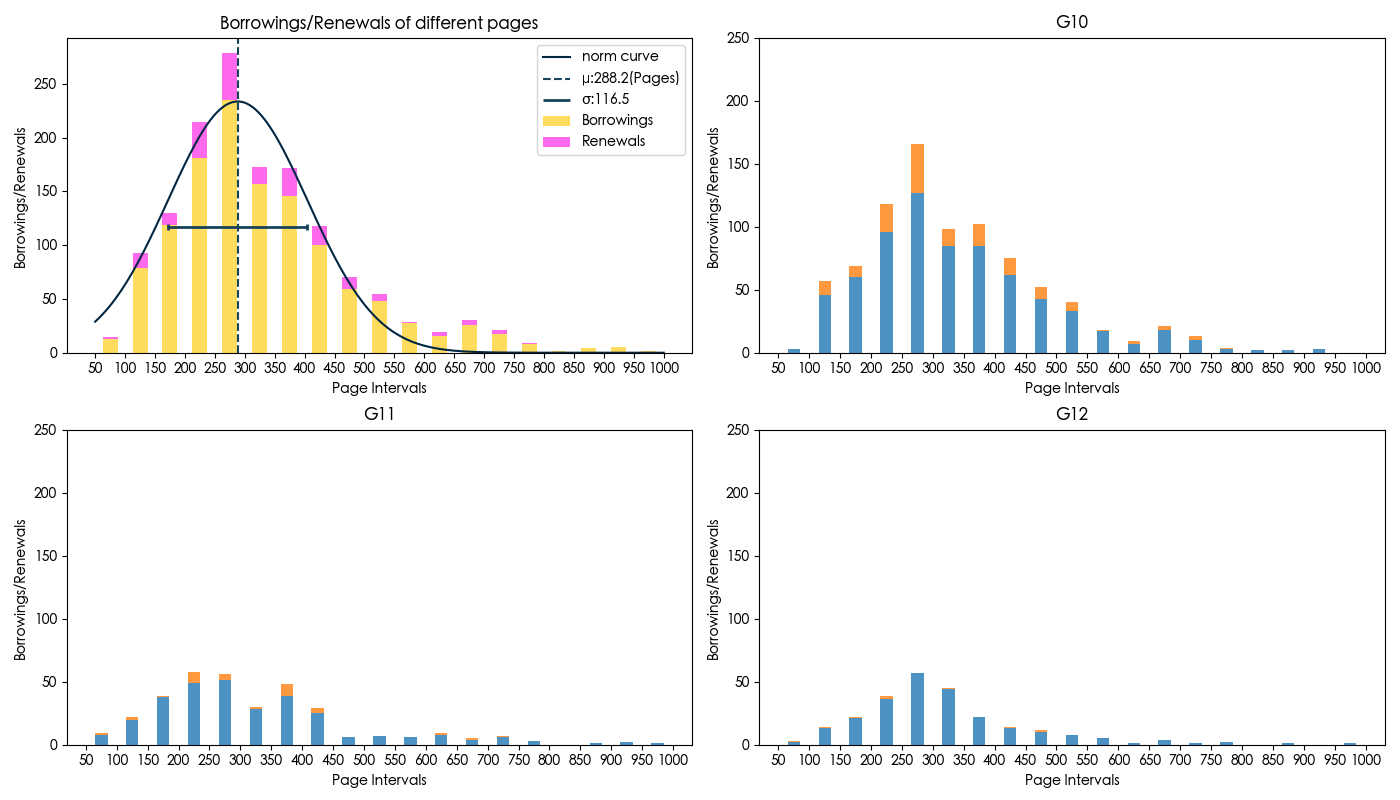
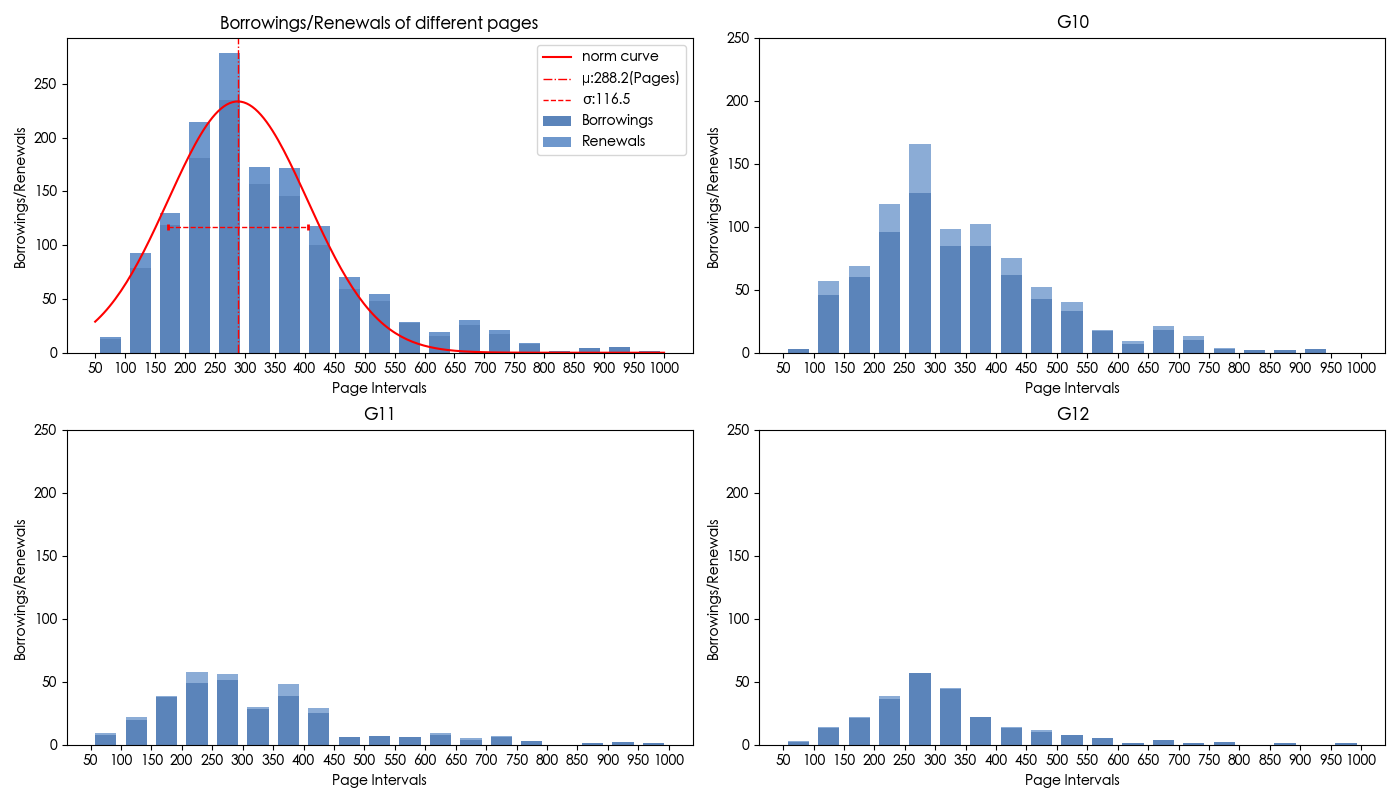
将color集中在color.py

diff --git a/code/借书时间段.py b/code/借书时间段.py
@@ -5,6 +5,7 @@ from matplotlib.ticker import MaxNLocator, FixedLocator
 from scipy.ndimage import gaussian_filter1d
 from scipy.optimize import curve_fit
 
+import color
 
 # ===================== 1. 读取数据 =====================
 # 请改成你自己的 Excel 文件名
@@ -81,11 +82,11 @@ daily_sum.to_excel(output_location, sheet_name="Sheet1")
 plt.rcParams['font.sans-serif'] = ['Arial']
 plt.rcParams['axes.unicode_minus'] = False  # 负号正常显示
 
-bar_color1='#3673AA'
-bar_color2='#4AA6B6'
-curve_color='#FF8811'
-center_line_color='#F4D035'
-width_color='#F4D06F'
+
+
+curve_color=color.line_color1
+center_line_color=color.line_color1
+width_color=color.line_color1
 fig,((ax1 ,g10),(g11,g12))= plt.subplots(2, 2, figsize=(15, 8))
 
 def set_twin_label(ax):
@@ -95,12 +96,12 @@ def set_twin_label(ax):
     axx.set_yticks([0, 0.5, 1.0, 1.5, 2.0])
 
 #bar graph
-ax1.bar(daily_sum["借阅时间段"], daily_separate["外借"], color=bar_color1, alpha=0.9,label="Borrowings")
-ax1.bar(daily_sum["借阅时间段"],daily_separate["续借"],bottom=daily_separate["外借"], color=bar_color2, alpha=0.9,label="Renewals")
+ax1.bar(daily_sum["借阅时间段"], daily_separate["外借"], color=color.bar_color1, alpha=0.9,label="Borrowings")
+ax1.bar(daily_sum["借阅时间段"],daily_separate["续借"],bottom=daily_separate["外借"], color=color.bar_color2, alpha=0.9,label="Renewals")
 #curve graph
 x_smooth = np.linspace(0, 23, 200)
 y_smooth = double_gaussian(x_smooth, *params)
-ax1.plot(x_smooth, y_smooth, color=curve_color, linewidth=2, label='Bimodal Curve')
+ax1.plot(x_smooth, y_smooth, color=curve_color, linewidth=1, label='Bimodal Curve')
 #set title/label/grid
 ax1.set_title("Hourly Borrowings/Renewals Statistics", fontsize=14, fontweight="bold")
 ax1.set_ylabel("Total Borrowings/Renewals")
@@ -111,13 +112,13 @@ rax1.set_ylim(0, 2.0)
 rax1.set_yticks([0,0.5,1.0,1.5,2.0])
 ax1.grid(alpha=0.3)
 #draw center line(μ)
-ax1.axvline(mu1, color=center_line_color, linestyle='-',linewidth=2)
-ax1.axvline(mu2, color=center_line_color, linestyle='-', label=f'μ1:{mu1:.1f}\nμ2:{mu2:.1f}',linewidth=2)
+ax1.axvline(mu1, color=center_line_color, linestyle='--',linewidth=1)
+ax1.axvline(mu2, color=center_line_color, linestyle='--', label=f'μ1:{mu1:.1f}\nμ2:{mu2:.1f}',linewidth=1)
 #draw width(σ)
 y1line = a1*0.5
 y2line = a2*0.5
-ax1.hlines(y=y1line, xmin=mu1 - sigma1, xmax=mu1 + sigma1, color=width_color, linestyle='-', linewidth=2, label=f'σ1:{sigma1:.1f}\nσ2:{sigma2:.1f}')
-ax1.hlines(y=y2line, xmin=mu2 - sigma2, xmax=mu2 + sigma2, color=width_color, linestyle='-', linewidth=2)
+ax1.hlines(y=y1line, xmin=mu1 - sigma1, xmax=mu1 + sigma1, color=width_color, linestyle='--', linewidth=1, label=f'σ1:{sigma1:.1f}\nσ2:{sigma2:.1f}')
+ax1.hlines(y=y2line, xmin=mu2 - sigma2, xmax=mu2 + sigma2, color=width_color, linestyle='--', linewidth=1)
 
 cap_height = 5  # 竖线高度
 ax1.vlines([mu1 - sigma1, mu1 + sigma1], y1line - cap_height/2, y1line + cap_height/2, color=width_color, linewidth=2)
@@ -126,12 +127,12 @@ ax1.vlines([mu2 - sigma2, mu2 + sigma2], y2line - cap_height/2, y2line + cap_hei
 
 ax1.xaxis.set_major_locator(MaxNLocator(nbins=10, integer=True))
 
-g10.bar(IB24G10_processed["借阅时间段"],IB24G10_processed["外借"],label="Borrowings")
-g10.bar(IB24G10_processed["借阅时间段"],IB24G10_processed["续借"],bottom=IB24G10_processed["外借"],label="Renewals")
-g11.bar(IB23G11_processed["借阅时间段"],IB23G11_processed["外借"],label="Borrowings")
-g11.bar(IB23G11_processed["借阅时间段"],IB23G11_processed["续借"],bottom=IB23G11_processed["外借"],label="Renewals")
-g12.bar(IB22G12_processed["借阅时间段"],IB22G12_processed["外借"],label="Borrowings")
-g12.bar(IB22G12_processed["借阅时间段"],IB22G12_processed["续借"],bottom=IB22G12_processed["外借"],label="Renewals")
+g10.bar(IB24G10_processed["借阅时间段"],IB24G10_processed["外借"],color=color.bar_color1,label="Borrowings")
+g10.bar(IB24G10_processed["借阅时间段"],IB24G10_processed["续借"],color=color.bar_color2,bottom=IB24G10_processed["外借"],label="Renewals")
+g11.bar(IB23G11_processed["借阅时间段"],IB23G11_processed["外借"],color=color.bar_color1,label="Borrowings")
+g11.bar(IB23G11_processed["借阅时间段"],IB23G11_processed["续借"],color=color.bar_color2,bottom=IB23G11_processed["外借"],label="Renewals")
+g12.bar(IB22G12_processed["借阅时间段"],IB22G12_processed["外借"],color=color.bar_color1,label="Borrowings")
+g12.bar(IB22G12_processed["借阅时间段"],IB22G12_processed["续借"],color=color.bar_color2,bottom=IB22G12_processed["外借"],label="Renewals")
 
 g10.xaxis.set_major_locator(FixedLocator([0,3,6,9,12,15,18,21,24]))
 g11.xaxis.set_major_locator(FixedLocator([0,3,6,9,12,15,18,21,24]))
@@ -150,6 +151,9 @@ g11.set_ylim(0, 350)
 g12.set_ylim(0, 350)
 g10.set_ylim(0, 350)
 
+g10.set_xlabel("Hours")
+g11.set_xlabel("Hours")
+g12.set_xlabel("Hours")
 ax1.legend()
 g10.legend()
 g11.legend()

diff --git a/code/日借阅量.py b/code/日借阅量.py
@@ -2,7 +2,7 @@ import pandas as pd
 import matplotlib.pyplot as plt
 import matplotlib.dates as mdates
 from matplotlib.ticker import FixedLocator
-
+import color
 # ===================== 1. 读取数据 =====================
 # 请改成你自己的 Excel 文件名
 df = pd.read_excel("/Users/zzyyio/PycharmProjects/25-26 2nd term MT3 for students/dataset/all.xlsx"
@@ -49,13 +49,13 @@ top10 = daily.nlargest(10, "借阅量").sort_values("借阅量", ascending=True)
 plt.rcParams['font.sans-serif'] = ['Heiti TC']  # macOS 系统自带
 plt.rcParams['axes.unicode_minus'] = False  # 负号正常显示
 
-fig, ((ax1,g10),(ax2,g11),(ax3,g12)) = plt.subplots(3, 2, figsize=(12, 8))
+fig,(ax1,ax2) = plt.subplots(2, 1, figsize=(10, 8))
 
 # 上半图：每日借阅量趋势
-ax1.bar(daily["借阅日期"], daily["外借"], color="#4285F4", alpha=0.8,label="Borrowings")
-ax1.bar(daily["借阅日期"],daily["续借"],bottom=daily["外借"],color="#428500", alpha=0.8,label="Renewals")
-ax1.axhline(y=daily["借阅量"].mean(), color="red", linestyle="--", label=f"Average：{daily['借阅量'].mean():.1f}")
-ax1.set_title("每日图书借阅量统计", fontsize=14, fontweight="bold")
+ax1.bar(daily["借阅日期"], daily["外借"], color=color.bar_color1, alpha=0.8,label="Borrowings")
+ax1.bar(daily["借阅日期"],daily["续借"],bottom=daily["外借"],color=color.bar_color2, alpha=0.8,label="Renewals")
+ax1.axhline(y=daily["借阅量"].mean(), color=color.line_color1, linestyle="--", label=f"Average：{daily['借阅量'].mean():.1f}")
+ax1.set_title("Daily Statistics of Borrowings/Renewals", fontsize=14, fontweight="bold")
 ax1.set_ylabel("Borrowings and Renewals")
 ax1.legend()
 ax1.grid(alpha=0.3)
@@ -63,21 +63,25 @@ ax1.xaxis.set_major_formatter(mdates.DateFormatter("%m-%d"))
 ax1.set_xlabel("Date")
 
 # 下半图：TOP10 日期柱状图
-ax2.barh(range(len(top10)), top10["外借"], color="cyan", alpha=0.8,label="Borrowings")
-ax2.barh(range(len(top10)), top10["续借"],left=top10["外借"],color="red",alpha=0.8,label="Renewals")
+ax2.barh(range(len(top10)), top10["外借"], color=color.bar_color1, alpha=0.8,label="Borrowings")
+ax2.barh(range(len(top10)), top10["续借"],left=top10["外借"],color=color.bar_color2,alpha=0.8,label="Renewals")
 ax2.set_yticks(range(len(top10)))
 ax2.set_yticklabels(top10["借阅日期"].dt.strftime("%m-%d"))
 ax2.set_xlabel("Borrowings and Renewals")
 ax2.set_title("Top 10 dates by circulation", fontweight="bold")
-ax2.axvline(x=daily["借阅量"].mean(), color="red", linestyle="--", label=f"Average：{daily['借阅量'].mean():.1f}")
+ax2.axvline(x=daily["借阅量"].mean(), color=color.line_color1, linestyle="--", label=f"Average：{daily['借阅量'].mean():.1f}")
 ax2.legend()
 # 在柱子上加数字
 for i, v in enumerate(top10["借阅量"]):
     ax2.text(v + 0.2, i, str(v), va="center", fontweight="bold")
 
+plt.tight_layout()
+plt.savefig('../rendering/每日借阅量.png')
+# .savefig('../rendering/top10借阅量日期.png')
 
-ax3.bar(month["借阅年月"],month["外借"],color="#4285F4", alpha=0.8,width=10,label="Borrowings")
-ax3.bar(month["借阅年月"],month["续借"],bottom=month["外借"],color="red", alpha=0.8,width=10,label="Renewals")
+fig1 ,((ax3,g10),(g11,g12)) = plt.subplots(2, 2, figsize=(12, 8))
+ax3.bar(month["借阅年月"],month["外借"],color=color.bar_color1, alpha=0.8,width=10,label="Borrowings")
+ax3.bar(month["借阅年月"],month["续借"],bottom=month["外借"],color=color.bar_color2, alpha=0.8,width=10,label="Renewals")
 
 ax3.set_title("Monthly Book Circulation Statistics",fontsize=14, fontweight="bold")
 ax3.set_ylabel("Borrowings and Renewals")
@@ -85,12 +89,12 @@ ax3.grid(alpha=0.3)
 ax3.xaxis.set_major_formatter(mdates.DateFormatter("%y-%m"))
 ax3.set_xlabel("Date")
 bar_width = 10
-g10.bar(G10_processed["借阅年月"],G10_processed["外借"],width=bar_width)
-g10.bar(G10_processed["借阅年月"],G10_processed["续借"],bottom=G10_processed["外借"],width=bar_width)
-g11.bar(G11_processed["借阅年月"],G11_processed["外借"],width=bar_width)
-g11.bar(G11_processed["借阅年月"],G11_processed["续借"],bottom=G11_processed["外借"],width=bar_width)
-g12.bar(G12_processed["借阅年月"],G12_processed["外借"],width=bar_width)
-g12.bar(G12_processed["借阅年月"],G12_processed["续借"],bottom=G12_processed["外借"],width=bar_width)
+g10.bar(G10_processed["借阅年月"],G10_processed["外借"],color=color.bar_color1,width=bar_width,alpha=0.8)
+g10.bar(G10_processed["借阅年月"],G10_processed["续借"],color=color.bar_color2,bottom=G10_processed["外借"],width=bar_width,alpha=0.8)
+g11.bar(G11_processed["借阅年月"],G11_processed["外借"],color=color.bar_color1,width=bar_width,alpha=0.8)
+g11.bar(G11_processed["借阅年月"],G11_processed["续借"],color=color.bar_color2,bottom=G11_processed["外借"],width=bar_width,alpha=0.8)
+g12.bar(G12_processed["借阅年月"],G12_processed["外借"],color=color.bar_color1,width=bar_width,alpha=0.8)
+g12.bar(G12_processed["借阅年月"],G12_processed["续借"],color=color.bar_color2,bottom=G12_processed["外借"],width=bar_width,alpha=0.8)
 
 g10.yaxis.set_major_locator(FixedLocator([0,100,200,300,400,500]))
 g11.yaxis.set_major_locator(FixedLocator([0,100,200,300,400,500]))
@@ -119,5 +123,5 @@ g12.xaxis.set_major_formatter(mdates.DateFormatter("%y-%m"))
 
 ax3.legend()
 plt.tight_layout()
-plt.savefig('../rendering/借阅量.png')
+plt.savefig('../rendering/每月借阅量.png')
 plt.show()

diff --git a/code/页数.py b/code/页数.py
@@ -4,7 +4,7 @@ from matplotlib.ticker import MaxNLocator, FixedLocator
 import numpy as np
 from scipy.optimize import curve_fit
 import cal_for_three_class
-
+import color
 df = pd.read_excel("/Users/zzyyio/PycharmProjects/25-26 2nd term MT3 for students/dataset/all.xlsx"
                    ,sheet_name="Sheet1")
 
@@ -59,23 +59,24 @@ plt.rcParams['axes.unicode_minus'] = False  # 负号正常显示
 fig, ((ax,g10),(g11,g12)) = plt.subplots(2, 2, figsize=(14, 8))
 
 
-ax.bar(bins_mid, counts_separate["外借"], width=25,color="#FFDC5E", alpha=1,label="Borrowings")
-ax.bar(bins_mid, counts_separate["续借"], bottom=counts_separate["外借"],color="#FF69EB",width=25, alpha=1,label="Renewals")
+ax.bar(bins_mid, counts_separate["外借"], width=35,color=color.bar_color1, alpha=0.8,label="Borrowings")
+ax.bar(bins_mid, counts_separate["续借"], bottom=counts_separate["外借"],color=color.bar_color2,width=35, alpha=1,label="Renewals")
 ax.set_xlabel('Page Intervals')
 
 ax.xaxis.set_major_locator(MaxNLocator(21))
 
 ax.set_ylabel('Borrowings/Renewals')
 ax.set_title('Borrowings/Renewals of different pages')
+vh_color=color.line_color1
+line_color=color.line_color1
 
-
-ax.plot(x_smooth, y_smooth, color='#002642', linestyle='-', label='norm curve')
-ax.axvline(x=mu, color='#16425B', linestyle='--',label=f'μ:{mu:.1f}(Pages)')
-width_color="#16425B"
-ax.hlines(y=A*0.5, xmin=mu - sigma, xmax=mu + sigma, color=width_color, linestyle='-', linewidth=2, label=f'σ:{sigma:.1f}')
+ax.plot(x_smooth, y_smooth, color=line_color, linestyle='-', label='norm curve')
+ax.axvline(x=mu, color=vh_color, linestyle='dashdot',linewidth=1,label=f'μ:{mu:.1f}(Pages)')
+width_color=vh_color
+ax.hlines(y=A*0.5, xmin=mu - sigma, xmax=mu + sigma, color=width_color, linestyle='--', linewidth=1, label=f'σ:{sigma:.1f}')
 ax.vlines([mu - sigma, mu + sigma], A*0.5 - 5/2, A*0.5 + 5/2, color=width_color, linewidth=2)
 
-cal_for_three_class.page_show(g10,g11,g12,G10_processed,G11_processed,G12_processed,bins_mid,"外借",20)
+cal_for_three_class.page_show(g10,g11,g12,G10_processed,G11_processed,G12_processed,bins_mid,"外借",35)
 ax.legend()
 plt.tight_layout()
 

diff --git a/code/cal_for_three_class.py b/code/cal_for_three_class.py
@@ -1,7 +1,7 @@
 import pandas as pd
 import matplotlib
 from matplotlib.ticker import MaxNLocator, FixedLocator
-
+import color
 
 def process(df,tgtstr):
     IB24G10 = df[df["Grade"] == "IB24G10"]
@@ -32,13 +32,13 @@ def show(g10,g11,g12,g10_data,g11_data,g12_data,x_label,y_label):
     g12.bar(g12_data[x_label],g12_data[y_label])
 
 def page_show(g10,g11,g12,g10_data,g11_data,g12_data,bins,y_label,width):
-    g10.bar(bins,g10_data[y_label],width=width,label=y_label,alpha=0.8)
-    g11.bar(bins,g11_data[y_label],width=width,alpha=0.8)
-    g12.bar(bins,g12_data[y_label],width=width,alpha=0.8)
+    g10.bar(bins,g10_data[y_label],color=color.bar_color1,width=width,label=y_label,alpha=0.8)
+    g11.bar(bins,g11_data[y_label],color=color.bar_color1,width=width,alpha=0.8)
+    g12.bar(bins,g12_data[y_label],color=color.bar_color1,width=width,alpha=0.8)
 
-    g10.bar(bins,g10_data["续借"],bottom=g10_data[y_label],width=width,alpha=0.8,label="续借")
-    g11.bar(bins,g11_data["续借"],bottom=g11_data[y_label],width=width,alpha=0.8)
-    g12.bar(bins,g12_data["续借"],bottom=g12_data[y_label],width=width,alpha=0.8)
+    g10.bar(bins,g10_data["续借"],bottom=g10_data[y_label],color=color.bar_color2,width=width,alpha=0.8,label="续借")
+    g11.bar(bins,g11_data["续借"],bottom=g11_data[y_label],color=color.bar_color2,width=width,alpha=0.8)
+    g12.bar(bins,g12_data["续借"],bottom=g12_data[y_label],color=color.bar_color2,width=width,alpha=0.8)
 
     g10.set_xlabel('Page Intervals')
     g10.xaxis.set_major_locator(MaxNLocator(21))

diff --git a/code/写作日期_int.py b/code/写作日期_int.py
@@ -85,9 +85,9 @@ fig, borrow_sum = plt.subplots(1, 1, figsize=(8, 5))
 borrow_sum.bar(x_pos, year["数量"], color="#4285F4", alpha=0.8, width=0.5)
 # 映射加权平均到索引位置
 year_mean = np.interp(year_mean, year['写作日期'], x_pos)
-borrow_sum.axvline(x=year_mean, color="red", linestyle="--", label=f'center:{year_mean:.0f}')
-borrow_sum.set_title("借阅/续借量关于写作日期的分布", fontsize=14, fontweight="bold")
-borrow_sum.set_ylabel("该年写作的书的总借阅/续借量（本）")
+# borrow_sum.axvline(x=year_mean, color="red", linestyle="--", label=f'center:{year_mean:.0f}')
+borrow_sum.set_title("Distribution of Borrowing/Renewal by Writing Date", fontsize=14, fontweight="bold")
+borrow_sum.set_ylabel("Borrowings and Renewals")
 borrow_sum.grid(alpha=0.3)
 
 
@@ -104,12 +104,12 @@ tick_labels = year['写作日期'].iloc[tick_positions].tolist()
 borrow_sum.set_xticks(tick_positions)
 borrow_sum.set_xticklabels(tick_labels, rotation=45)
 
-
+borrow_sum.set_xlabel("Date")
 
 # borrow_sum.plot(np.interp(x_fit, x_data, x_pos), y_fit, color='orange', label='Gamma-like fit')
 
 
-borrow_sum.legend()
+# borrow_sum.legend()
 plt.tight_layout()
 plt.savefig("../rendering/写作日期_int.png")
 plt.show()

diff --git a/code/color.py b/code/color.py
@@ -1,0 +1,8 @@
+
+
+
+
+bar_color1="#3266A9"
+bar_color2="#6E97CC"
+
+line_color1="red"